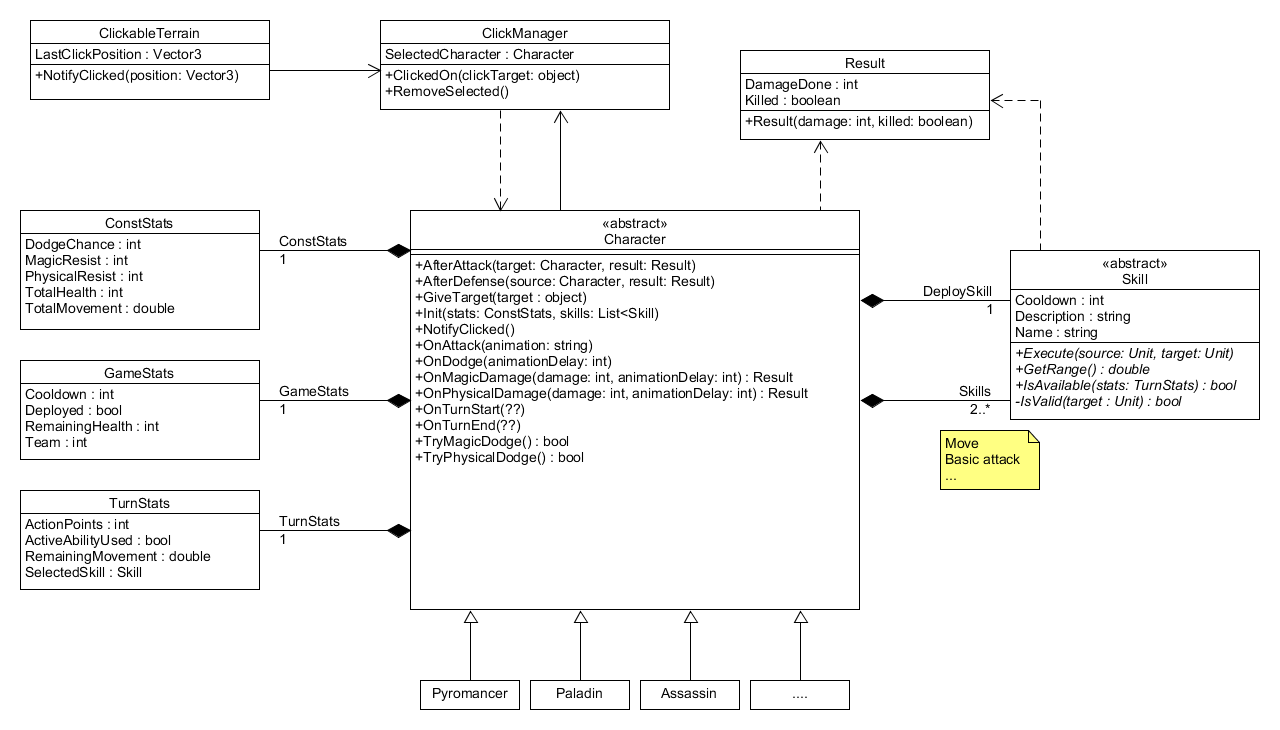
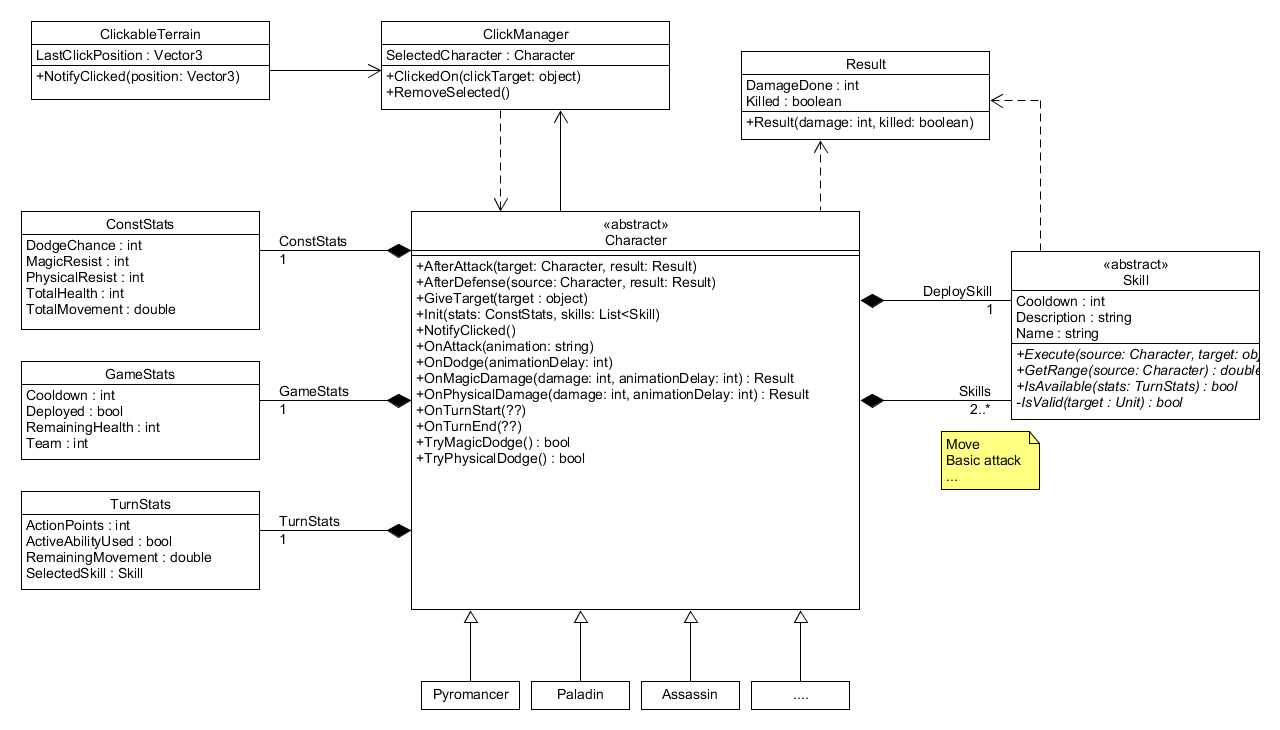
Skill getRange függvény paramétere, class diagram, selected skill az infopanelen

diff --git a/TemalabProject/Assets/Scripts/Model/Characters/Pyromancer/Skills/BasicAttack_Pyromancer.cs b/TemalabProject/Assets/Scripts/Model/Characters/Pyromancer/Skills/BasicAttack_Pyromancer.cs
@@ -6,6 +6,16 @@ using Assets.Scripts.Model;
 
 namespace Assets.Scripts.Model.Skills {
     public class BasicAttack_Pyromancer : Skill {
+
+        private int damage = 30;
+
+        public BasicAttack_Pyromancer() {
+            cooldown = 2;
+            name = "Basic attack";
+            description = String.Format("Deal {0} damage to a target unit.", damage);
+            
+        }
+
         public override void Execute(Character source, object target) {
             if (!IsValidTarget(target)) {
                 return;
@@ -18,7 +28,7 @@ namespace Assets.Scripts.Model.Skills {
                 enemy.OnDodge(0);
             }
             else {
-                result = enemy.OnMagicDamage(30, 0);
+                result = enemy.OnMagicDamage(damage, 0);
             }
 
             source.OnAttack();
@@ -27,7 +37,7 @@ namespace Assets.Scripts.Model.Skills {
             // afterdefense
         }
 
-        public override double GetRange() {
+        public override double GetRange(Character source) {
             return 10;
         }
 
@@ -38,5 +48,7 @@ namespace Assets.Scripts.Model.Skills {
         protected override bool IsValidTarget(object target) {
             return target is Character;
         }
+
+
     }
 }

diff --git a/TemalabProject/Assets/Scripts/Model/Skill.cs b/TemalabProject/Assets/Scripts/Model/Skill.cs
@@ -6,17 +6,21 @@ using System.Text;
 namespace Assets.Scripts.Model {
     public abstract class Skill {
 
-        int cooldown;
-        string name;
-        string description;
+        public int cooldown;
+        public string name;
+        public string description;
 
         public abstract void Execute(Character source, object target);
 
-        public abstract double GetRange();
+        public abstract double GetRange(Character source);
 
         public abstract bool IsAvailable(TurnStats turnStats);
 
         protected abstract bool IsValidTarget(object target);
+        
+        public override string ToString() {
+            return name + ": " + description;
+        }
 
     }
 

diff --git a/TemalabProject/Assets/Scripts/Model/ConstStats.cs b/TemalabProject/Assets/Scripts/Model/ConstStats.cs
@@ -17,7 +17,7 @@ namespace Assets.Scripts.Model {
                           "Magic resist: " + MagicResist.ToString() + Environment.NewLine +
                           "Physical resist: " + PhysicalResist.ToString() + Environment.NewLine +
                           "Total health: " + TotalHealth.ToString() + Environment.NewLine +
-                          "Total movement: " + TotalMovement.ToString();
+                          "Total movement: " + TotalMovement.ToString()+Environment.NewLine;
 
             return info;
         }

diff --git a/TemalabProject/Assets/Scripts/UI/CharacterHoverHandler.cs b/TemalabProject/Assets/Scripts/UI/CharacterHoverHandler.cs
@@ -11,7 +11,8 @@ namespace Assets.Scripts.UI {
         {
             Character character = GetComponent<Character>();
             ConstStats constStats = character.ConstStats;
-            infoPanel.ShowConstInfo(constStats.ToString());
+            Skill selectedSkill = character.TurnStats.SelectedSkill;
+            infoPanel.ShowConstInfo(constStats.ToString(), selectedSkill.ToString());
         }
 
         void OnMouseExit()

diff --git a/TemalabProject/Assets/Scripts/UI/InfoPanel.cs b/TemalabProject/Assets/Scripts/UI/InfoPanel.cs
@@ -23,10 +23,10 @@ namespace Assets.Scripts.UI
             Fade();
         }
 
-        public void ShowConstInfo(String constStats)
+        public void ShowConstInfo(String constStats, String skillInfo)
         {
             gameObject.SetActive(true);
-            info.text = constStats;
+            info.text = constStats+Environment.NewLine+skillInfo;
             displayInfo = true;
         }
 

diff --git a/TemalabProject/Assets/Scripts/Model/Common Skills/Walk.cs b/TemalabProject/Assets/Scripts/Model/Common Skills/Walk.cs
@@ -16,8 +16,8 @@ namespace Assets.Scripts.Model.Skills {
             agent.SetDestination(terrain.LastClickPosition);
         }
 
-        public override double GetRange() {
-            return 10;
+        public override double GetRange(Character source) {
+            return source.TurnStats.RemainingMovement;
         }
 
         public override bool IsAvailable(TurnStats stats) {

diff --git a/TemalabProject/Assets/Scripts/Model/Common Skills/Deploy.cs b/TemalabProject/Assets/Scripts/Model/Common Skills/Deploy.cs
@@ -24,7 +24,7 @@ namespace Assets.Scripts.Model.Skills {
             source.GameStats.Deployed = true;
         }
 
-        public override double GetRange() {
+        public override double GetRange(Character source) {
             return 10;
         }
 
